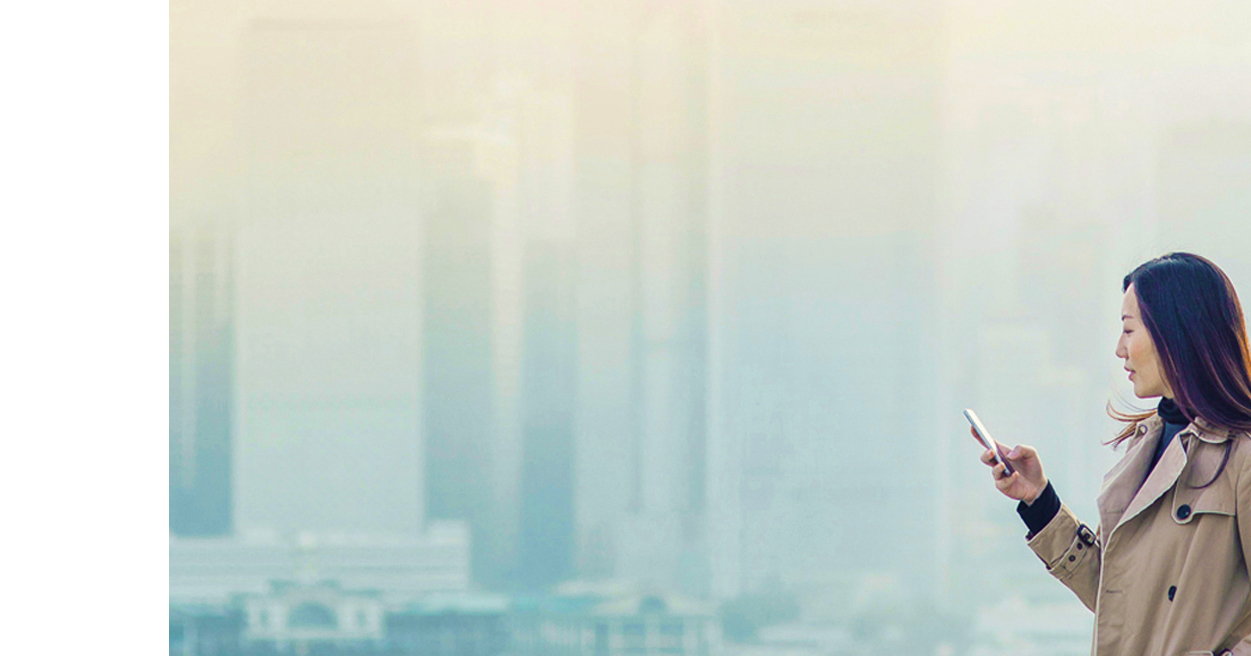
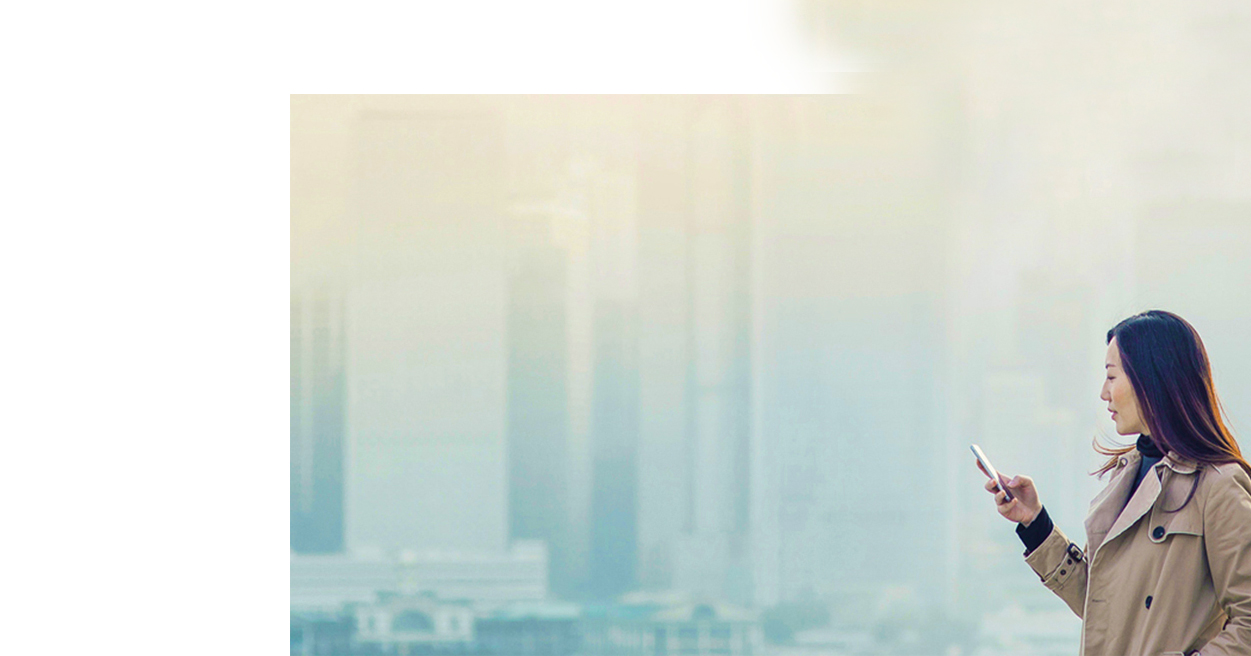
G
G

diff --git a/portail-client/index-mobile.html b/portail-client/index-mobile.html
@@ -252,12 +252,12 @@
 
                     </li>
 
-                    <li class="nav-item" id="notification-alert">
+                    <!-- <li class="nav-item" id="notification-alert">
                         <div href="" class="nav-link notification">
                             <i class="fa fa-bell-o text-secondary-color"></i>
                             <span class="label-top-container label label-top label-warning bg-grey-active"> 0</span>
                         </div>
-                    </li>
+                    </li> -->
 
                 </ul>
             </div>

diff --git a/portail-client/css/portail-client-style.scss b/portail-client/css/portail-client-style.scss
@@ -293,7 +293,7 @@ body {
                 background-attachment: scroll;
                 background-position: bottom right;
                 background-size: cover;
-                height: 750px;    
+                height: 760px;    
         } 
     }
 
@@ -301,7 +301,7 @@ body {
         padding-top: 75%;
         padding-bottom: 5px;
         @media (max-width: 768px) {
-            padding-top: 151%;
+            padding-top: 65%;
             padding-bottom: 6px;
             margin: 32px;
          }

diff --git a/portail-client/css/portail-client-style.css b/portail-client/css/portail-client-style.css
@@ -532,7 +532,7 @@ header.banner {
     background-attachment: scroll;
     background-position: bottom right;
     background-size: cover;
-    height: 750px;
+    height: 760px;
   }
 }
 
@@ -542,7 +542,7 @@ header.banner .intro-text {
 }
 @media (max-width: 768px) {
   header.banner .intro-text {
-    padding-top: 151%;
+    padding-top: 65%;
     padding-bottom: 6px;
     margin: 32px;
   }
